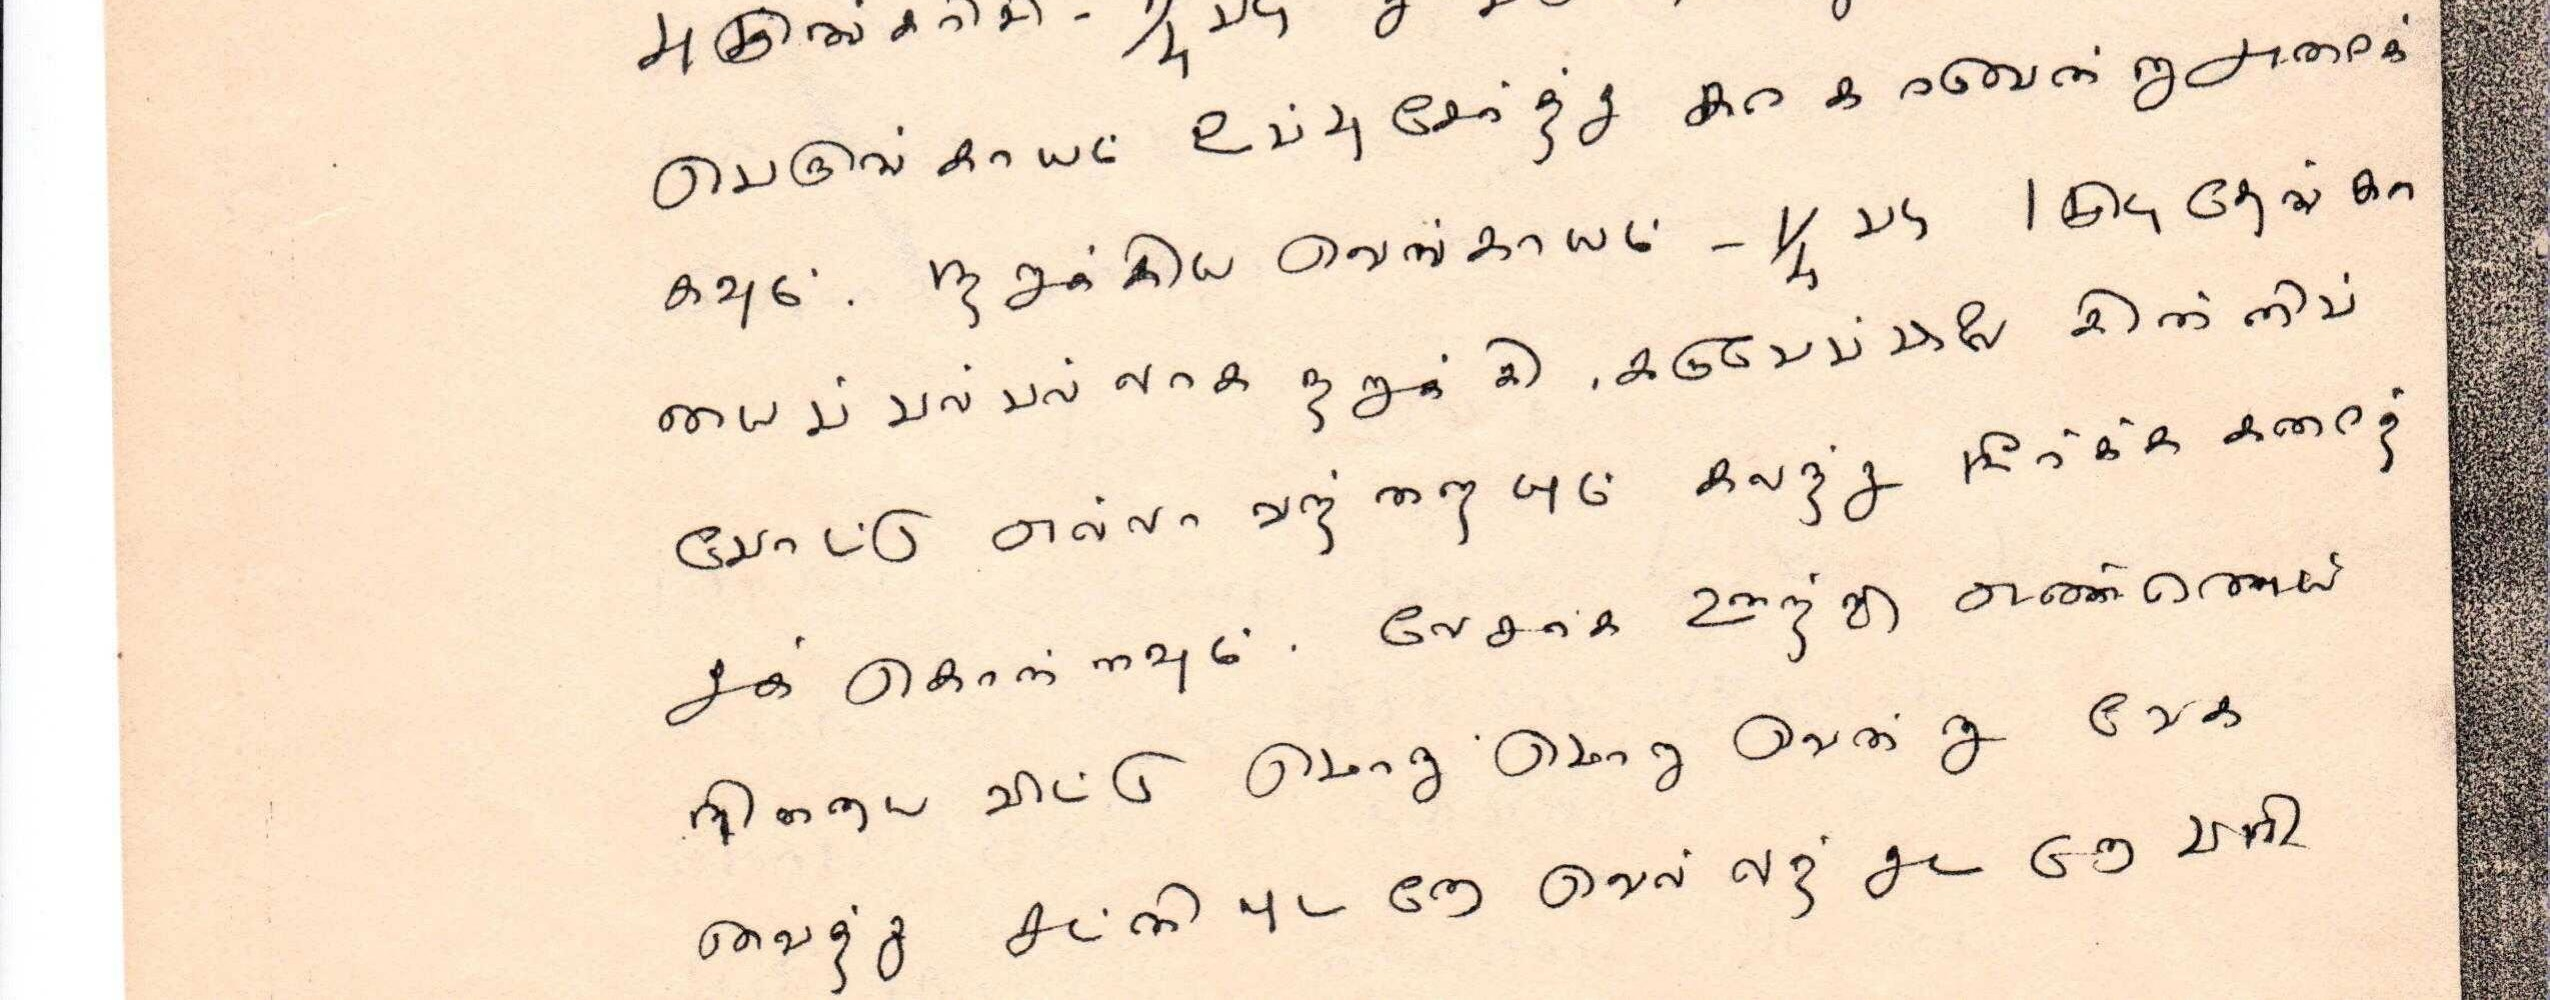
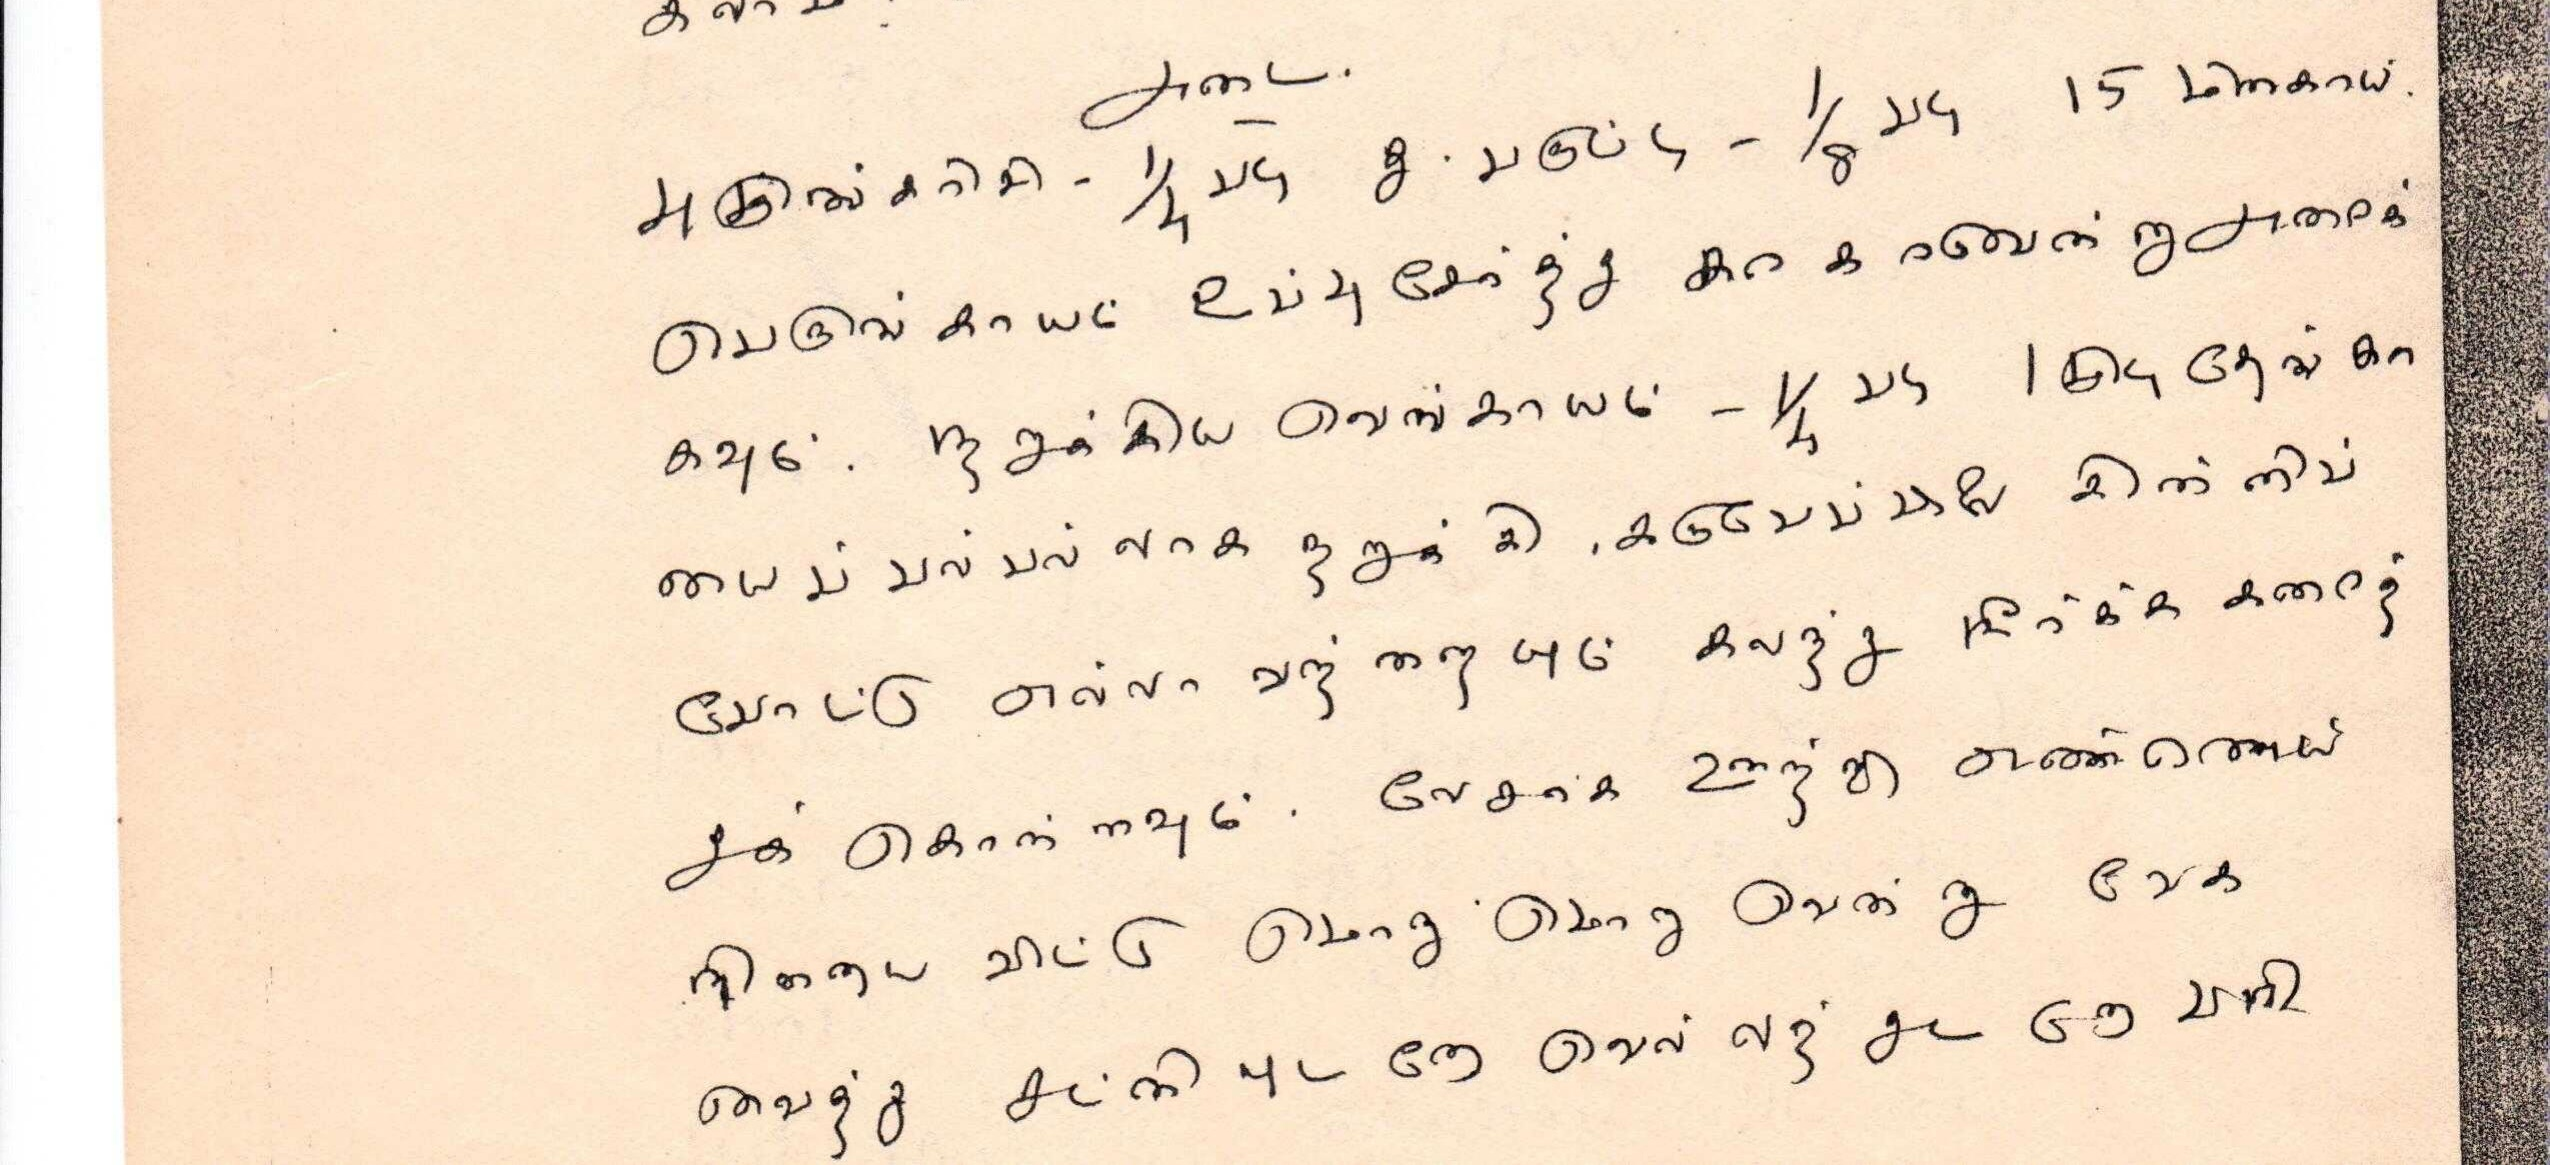
Adjust Adai crop to include full title

diff --git a/scripts/crop_snippets.py b/scripts/crop_snippets.py
@@ -27,8 +27,8 @@ def get_recipe_snippets():
         {"name": "appam", "page": 13, "top": 0.7, "bottom": 1.0},
         {"name": "lemon_pickle", "page": 14, "top": 0, "bottom": 0.4},
         {"name": "tomato_pickle", "page": 14, "top": 0.4, "bottom": 1.0},
-        {"name": "thavala_vadai", "page": 15, "top": 0, "bottom": 0.7},
-        {"name": "adai", "page": 15, "top": 0.7, "bottom": 1.0},
+        {"name": "thavala_vadai", "page": 15, "top": 0, "bottom": 0.65},
+        {"name": "adai", "page": 15, "top": 0.65, "bottom": 1.0},
         {"name": "sambar_powder_batch_3", "page": 16, "top": 0, "bottom": 0.35},
         {"name": "rasam_powder_batch_2", "page": 16, "top": 0.35, "bottom": 0.58},
         {"name": "kari_masala_powder", "page": 16, "top": 0.58, "bottom": 0.78},
